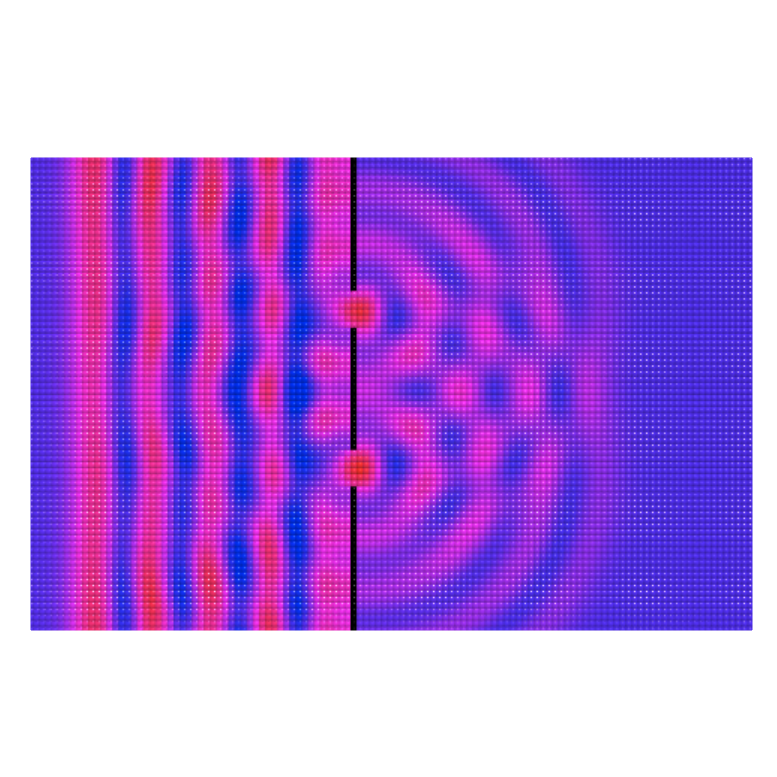
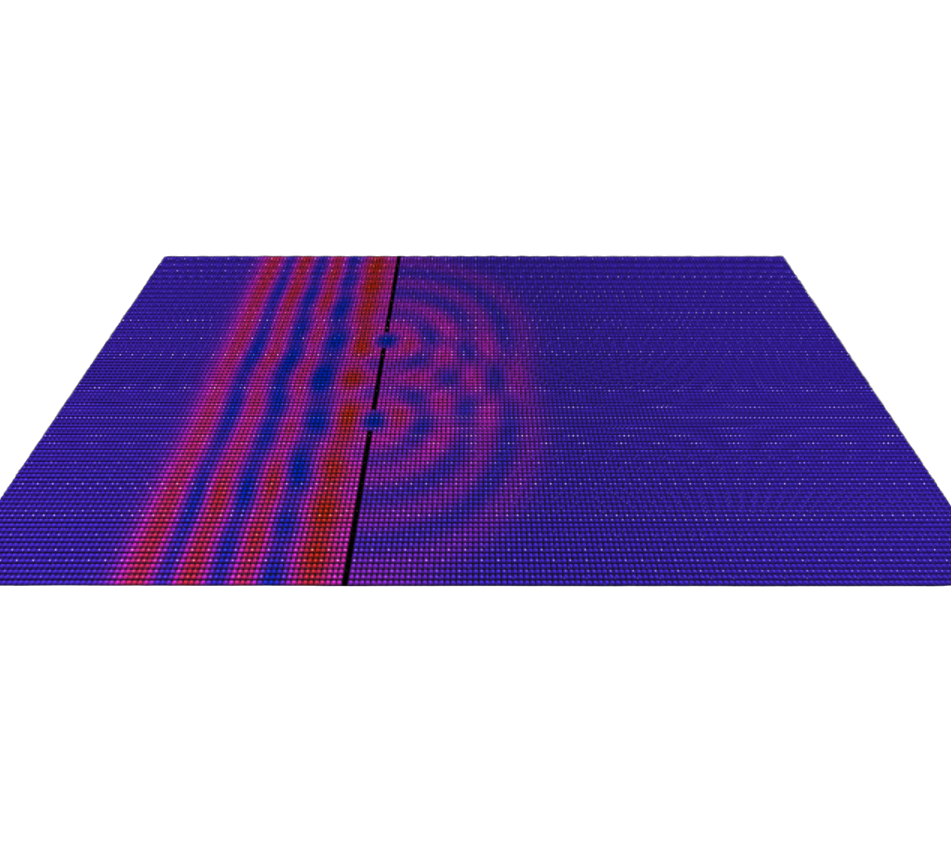
Update

diff --git a/quantumphysics/code/DynamicDoubleSlit.html b/quantumphysics/code/DynamicDoubleSlit.html
@@ -53,7 +53,7 @@ async function __main__() {
 
     function round(num, n=0) {return Number(num.toFixed(n))}
     var arrow, compound, cone, curve, cylinder, ellipsoid, extrusion, helix, points, pyramid, ring, sphere, group, vector, sleep, update, paths, shapes, vertex, triangle, quad, distant_light, local_light, attach_trail, attach_arrow, attach_light, sqrt, sin, tan, asin, acos, atan, atan2, exp, log, pow, factorial, combin, button, radio, slider, text, download, radians, degrees, get_library, read_local_file
-    var version, print, arange, __name__, type, ρσ_ls, title, display, slit_size, slit_distance, inter1, mid_up, mid_down, inter2, wall_x, dx, dy, dt, velocity_source, colorrange, floor, velocity_source_2, dx_2, dy_2, pi_2, use_round_pixels, _, popup, pixels, ρσ_unpack, u_mesh, ut_mesh, utt_mesh;
+    var version, print, arange, __name__, type, ρσ_ls, title, display, slit_size, slit_distance, inter1, mid_up, mid_down, inter2, wall_x, dx, dy, dt, velocity_source, colorrange, floor, velocity_source_2, dx_2, dy_2, pi_2, use_round_pixels, _, clock, pixels, ρσ_unpack, u_mesh, ut_mesh, utt_mesh, popup, j, i;
     version = ρσ_list_decorate([ "3.2", "glowscript" ]);
     Array.prototype['+'] = function(r) {return this.concat(r)}
     Array.prototype['*'] = function(r) {return __array_times_number(this, r)}
@@ -68,7 +68,7 @@ async function __main__() {
     "7";
     title = "&#x2022; Original <a href=\"https://github.com/NelsonHackerman/Random_python_ideas/blob/main/double%20slit%20experiment.py\">double slit experiment.py<\/a> by <a href=\"https://github.com/NelsonHackerman\">Nelson Hackerman</a>\n&#x2022; Ported from PyGame to Glowscript by <a href=\"https://www.hendrikse.name/\">Zeger Hendrikse</a>, see <a href=\"https://github.com/zhendrikse/science/blob/main/quantumphysics/code/dynamic_double_slit.py\">dynamic_double_slit.py</a>\n\n";
     "9";
-    display = ρσ_interpolate_kwargs.call(this, canvas, [ρσ_desugar_kwargs({title: title, background: color.gray(.075), center: vec(700, 350, 0)})]);
+    display = ρσ_interpolate_kwargs.call(this, canvas, [ρσ_desugar_kwargs({title: title, background: color.gray(.075), center: vec(700, 350, 0), forward: vec(0, .65, 1["-u"]()["*"](.75))})]);
     "11";
     slit_size = 6;
     "12";
@@ -188,7 +188,7 @@ async function __main__() {
                 "51";
                 if (pixels_are_round) {
                     "52";
-                    temp.append(ρσ_interpolate_kwargs.call(this, simple_sphere, [ρσ_desugar_kwargs({pos: vec(ρσ_getitem(ρσ_getitem(xmesh, j), i)["*"](100)["+"](50), ρσ_getitem(ρσ_getitem(ymesh, j), i)["*"](100)["+"](50), 0), radius: ceil(100["*"](dx))})]));
+                    temp.append(ρσ_interpolate_kwargs.call(this, simple_sphere, [ρσ_desugar_kwargs({pos: vec(ρσ_getitem(ρσ_getitem(xmesh, j), i)["*"](100)["+"](50), ρσ_getitem(ρσ_getitem(ymesh, j), i)["*"](100)["+"](50), 0), radius: 50["*"](dx)})]));
                     "53";
                 } else {
                     "54";
@@ -278,129 +278,133 @@ async function __main__() {
     pi_2 = pi["/"](2);
     "72";
     async function run_simulation(umesh, utmesh, uttmesh, pixels) {
-        var ρσ_ls, t, m, n, j, i;
+        var ρσ_ls, t, simulation_time, m, n, j, i;
         "73";
         t = 0;
         "74";
-        while (true) {
-            "75";
-            t=t["+"](dt);
+        simulation_time = 10;
+        "75";
+        while (t["<"](simulation_time)) {
             "76";
-            (await rate(100));
+            clock.text = "Time remaining: {:1.2f}".format(simulation_time["-"](1["*"](t)));
+            "77";
+            t=t["+"](dt);
             "78";
+            (await rate(50));
+            "80";
             var ρσ_Iter3 = range(1, len(pixels)["-"](1["*"](1)));
             ρσ_Iter3 = ((typeof ρσ_Iter3[Symbol.iterator] === "function") ? (ρσ_Iter3 instanceof Map ? ρσ_Iter3.keys() : ρσ_Iter3) : Object.keys(ρσ_Iter3));
             for (var ρσ_Index3 of ρσ_Iter3) {
                 n = ρσ_Index3;
-                "79";
+                "81";
                 var ρσ_Iter4 = range(1, len(ρσ_getitem(pixels, 0))["-"](1["*"](1)));
                 ρσ_Iter4 = ((typeof ρσ_Iter4[Symbol.iterator] === "function") ? (ρσ_Iter4 instanceof Map ? ρσ_Iter4.keys() : ρσ_Iter4) : Object.keys(ρσ_Iter4));
                 for (var ρσ_Index4 of ρσ_Iter4) {
                     m = ρσ_Index4;
-                    "80";
+                    "82";
                     ρσ_setitem(ρσ_getitem(uttmesh, m), n, velocity_source_2["*"](ρσ_getitem(ρσ_getitem(umesh, m), n["-"](1["*"](1)))["+"](ρσ_getitem(ρσ_getitem(umesh, m), n["+"](1)))["-"](1["*"](2)["*"](ρσ_getitem(ρσ_getitem(umesh, m), n)))["/"](dx_2)["+"](ρσ_getitem(ρσ_getitem(umesh, m["-"](1["*"](1))), n)["+"](ρσ_getitem(ρσ_getitem(umesh, m["+"](1)), n))["-"](1["*"](2)["*"](ρσ_getitem(ρσ_getitem(umesh, m), n)))["/"](dy_2))));
                 }
             }
-            "83";
+            "85";
             var ρσ_Iter5 = range(1, len(pixels)["-"](1["*"](1)));
             ρσ_Iter5 = ((typeof ρσ_Iter5[Symbol.iterator] === "function") ? (ρσ_Iter5 instanceof Map ? ρσ_Iter5.keys() : ρσ_Iter5) : Object.keys(ρσ_Iter5));
             for (var ρσ_Index5 of ρσ_Iter5) {
                 n = ρσ_Index5;
-                "84";
+                "86";
                 var ρσ_Iter6 = range(1, len(ρσ_getitem(pixels, 0))["-"](1["*"](1)));
                 ρσ_Iter6 = ((typeof ρσ_Iter6[Symbol.iterator] === "function") ? (ρσ_Iter6 instanceof Map ? ρσ_Iter6.keys() : ρσ_Iter6) : Object.keys(ρσ_Iter6));
                 for (var ρσ_Index6 of ρσ_Iter6) {
                     m = ρσ_Index6;
-                    "85";
+                    "87";
                     ρσ_setitem(ρσ_getitem(utmesh, m), n, ρσ_getitem(ρσ_getitem(utmesh, m), n)["+"](ρσ_getitem(ρσ_getitem(uttmesh, m), n)["*"](dt)));
-                    "86";
+                    "88";
                     ρσ_setitem(ρσ_getitem(umesh, m), n, ρσ_getitem(ρσ_getitem(umesh, m), n)["+"](ρσ_getitem(ρσ_getitem(utmesh, m), n)["*"](dt)));
                 }
             }
-            "89";
-            ρσ_setitem(umesh.slice(0), 0, ρσ_getitem(umesh.slice(0), 1));
-            "90";
-            ρσ_setitem(umesh.slice(0), 1["-u"]()["*"](1), ρσ_getitem(umesh.slice(0), 1["-u"]()["*"](2)));
             "91";
-            ρσ_splice(ρσ_getitem(umesh, 0), ρσ_getitem(umesh, 1).slice(0), 0);
+            ρσ_setitem(umesh.slice(0), 0, ρσ_getitem(umesh.slice(0), 1));
             "92";
-            ρσ_splice(ρσ_getitem(umesh, 1["-u"]()["*"](1)), ρσ_getitem(umesh, 1["-u"]()["*"](2)).slice(0), 0);
+            ρσ_setitem(umesh.slice(0), 1["-u"]()["*"](1), ρσ_getitem(umesh.slice(0), 1["-u"]()["*"](2)));
+            "93";
+            ρσ_splice(ρσ_getitem(umesh, 0), ρσ_getitem(umesh, 1).slice(0), 0);
             "94";
+            ρσ_splice(ρσ_getitem(umesh, 1["-u"]()["*"](1)), ρσ_getitem(umesh, 1["-u"]()["*"](2)).slice(0), 0);
+            "96";
             if (t["<"](pi_2)) {
-                "95";
+                "97";
                 var ρσ_Iter7 = range(len(ρσ_getitem(pixels, 0)));
                 ρσ_Iter7 = ((typeof ρσ_Iter7[Symbol.iterator] === "function") ? (ρσ_Iter7 instanceof Map ? ρσ_Iter7.keys() : ρσ_Iter7) : Object.keys(ρσ_Iter7));
                 for (var ρσ_Index7 of ρσ_Iter7) {
                     n = ρσ_Index7;
-                    "96";
+                    "98";
                     ρσ_setitem(ρσ_getitem(umesh, n), 0, 1["-u"]()["*"](cos(t["*"](20)))["+"](1));
                 }
             }
-            "98";
-            ρσ_setitem(ρσ_getitem(umesh, 0), 0, ρσ_getitem(ρσ_getitem(umesh, 1), 1));
-            "99";
-            ρσ_setitem(ρσ_getitem(umesh, 0), 1["-u"]()["*"](1), ρσ_getitem(ρσ_getitem(umesh, 1), 1["-u"]()["*"](2)));
             "100";
-            ρσ_setitem(ρσ_getitem(umesh, 1["-u"]()["*"](1)), 0, ρσ_getitem(ρσ_getitem(umesh, 1["-u"]()["*"](2)), 1));
+            ρσ_setitem(ρσ_getitem(umesh, 0), 0, ρσ_getitem(ρσ_getitem(umesh, 1), 1));
             "101";
-            ρσ_setitem(ρσ_getitem(umesh, 1["-u"]()["*"](1)), 1["-u"]()["*"](1), ρσ_getitem(ρσ_getitem(umesh, 1["-u"]()["*"](2)), 1["-u"]()["*"](2)));
+            ρσ_setitem(ρσ_getitem(umesh, 0), 1["-u"]()["*"](1), ρσ_getitem(ρσ_getitem(umesh, 1), 1["-u"]()["*"](2)));
+            "102";
+            ρσ_setitem(ρσ_getitem(umesh, 1["-u"]()["*"](1)), 0, ρσ_getitem(ρσ_getitem(umesh, 1["-u"]()["*"](2)), 1));
             "103";
+            ρσ_setitem(ρσ_getitem(umesh, 1["-u"]()["*"](1)), 1["-u"]()["*"](1), ρσ_getitem(ρσ_getitem(umesh, 1["-u"]()["*"](2)), 1["-u"]()["*"](2)));
+            "105";
             for (var ρσ_Index8 = 0; ρσ_Index8["<"](inter1); ρσ_Index8++) {
                 n = ρσ_Index8;
-                "104";
-                ρσ_setitem(ρσ_getitem(umesh, n), wall_x, 69);
-                "105";
-                ρσ_setitem(ρσ_getitem(umesh, n), wall_x["-"](1["*"](1)), ρσ_getitem(ρσ_getitem(umesh, n), wall_x["-"](1["*"](2))));
                 "106";
+                ρσ_setitem(ρσ_getitem(umesh, n), wall_x, 69);
+                "107";
+                ρσ_setitem(ρσ_getitem(umesh, n), wall_x["-"](1["*"](1)), ρσ_getitem(ρσ_getitem(umesh, n), wall_x["-"](1["*"](2))));
+                "108";
                 ρσ_setitem(ρσ_getitem(umesh, n), wall_x["+"](1), ρσ_getitem(ρσ_getitem(umesh, n), wall_x["+"](2)));
             }
-            "107";
-            ρσ_setitem(ρσ_getitem(umesh, inter1), wall_x, ρσ_getitem(ρσ_getitem(umesh, inter1), wall_x["-"](1["*"](1)))["+"](ρσ_getitem(ρσ_getitem(umesh, inter1), wall_x["+"](1)))["+"](ρσ_getitem(ρσ_getitem(umesh, inter1["+"](1)), wall_x))["/"](3));
             "109";
+            ρσ_setitem(ρσ_getitem(umesh, inter1), wall_x, ρσ_getitem(ρσ_getitem(umesh, inter1), wall_x["-"](1["*"](1)))["+"](ρσ_getitem(ρσ_getitem(umesh, inter1), wall_x["+"](1)))["+"](ρσ_getitem(ρσ_getitem(umesh, inter1["+"](1)), wall_x))["/"](3));
+            "111";
             for (var ρσ_Index9 = mid_up; ρσ_Index9["<"](mid_down); ρσ_Index9++) {
                 n = ρσ_Index9;
-                "110";
-                ρσ_setitem(ρσ_getitem(umesh, n), wall_x, 69);
-                "111";
-                ρσ_setitem(ρσ_getitem(umesh, n), wall_x["-"](1["*"](1)), ρσ_getitem(ρσ_getitem(umesh, n), wall_x["-"](1["*"](2))));
                 "112";
+                ρσ_setitem(ρσ_getitem(umesh, n), wall_x, 69);
+                "113";
+                ρσ_setitem(ρσ_getitem(umesh, n), wall_x["-"](1["*"](1)), ρσ_getitem(ρσ_getitem(umesh, n), wall_x["-"](1["*"](2))));
+                "114";
                 ρσ_setitem(ρσ_getitem(umesh, n), wall_x["+"](1), ρσ_getitem(ρσ_getitem(umesh, n), wall_x["+"](2)));
             }
-            "113";
-            ρσ_setitem(ρσ_getitem(umesh, mid_up["-"](1["*"](1))), wall_x, ρσ_getitem(ρσ_getitem(umesh, mid_up["-"](1["*"](1))), wall_x["-"](1["*"](1)))["+"](ρσ_getitem(ρσ_getitem(umesh, mid_up["-"](1["*"](1))), wall_x["+"](1)))["+"](ρσ_getitem(ρσ_getitem(umesh, mid_up["-"](1["*"](2))), wall_x))["/"](3));
             "115";
+            ρσ_setitem(ρσ_getitem(umesh, mid_up["-"](1["*"](1))), wall_x, ρσ_getitem(ρσ_getitem(umesh, mid_up["-"](1["*"](1))), wall_x["-"](1["*"](1)))["+"](ρσ_getitem(ρσ_getitem(umesh, mid_up["-"](1["*"](1))), wall_x["+"](1)))["+"](ρσ_getitem(ρσ_getitem(umesh, mid_up["-"](1["*"](2))), wall_x))["/"](3));
+            "117";
             ρσ_setitem(ρσ_getitem(umesh, mid_down), wall_x, ρσ_getitem(ρσ_getitem(umesh, mid_down), wall_x["-"](1["*"](1)))["+"](ρσ_getitem(ρσ_getitem(umesh, mid_down), wall_x["+"](1)))["+"](ρσ_getitem(ρσ_getitem(umesh, mid_down["+"](1)), wall_x))["/"](3));
-            "118";
+            "120";
             var ρσ_Iter10 = range(inter2, len(ρσ_getitem(pixels, 0)));
             ρσ_Iter10 = ((typeof ρσ_Iter10[Symbol.iterator] === "function") ? (ρσ_Iter10 instanceof Map ? ρσ_Iter10.keys() : ρσ_Iter10) : Object.keys(ρσ_Iter10));
             for (var ρσ_Index10 of ρσ_Iter10) {
                 n = ρσ_Index10;
-                "119";
-                ρσ_setitem(ρσ_getitem(umesh, n), wall_x, 69);
-                "120";
-                ρσ_setitem(ρσ_getitem(umesh, n), wall_x["-"](1["*"](1)), ρσ_getitem(ρσ_getitem(umesh, n), wall_x["-"](1["*"](2))));
                 "121";
+                ρσ_setitem(ρσ_getitem(umesh, n), wall_x, 69);
+                "122";
+                ρσ_setitem(ρσ_getitem(umesh, n), wall_x["-"](1["*"](1)), ρσ_getitem(ρσ_getitem(umesh, n), wall_x["-"](1["*"](2))));
+                "123";
                 ρσ_setitem(ρσ_getitem(umesh, n), wall_x["+"](1), ρσ_getitem(ρσ_getitem(umesh, n), wall_x["+"](2)));
             }
-            "122";
-            ρσ_setitem(ρσ_getitem(umesh, 1["-u"]()["*"](1)), wall_x, 69);
-            "123";
-            ρσ_setitem(ρσ_getitem(umesh, 1["-u"]()["*"](1)), wall_x["-"](1["*"](1)), ρσ_getitem(ρσ_getitem(umesh, 1["-u"]()["*"](1)), wall_x["-"](1["*"](2))));
             "124";
-            ρσ_setitem(ρσ_getitem(umesh, 1["-u"]()["*"](1)), wall_x["+"](1), ρσ_getitem(ρσ_getitem(umesh, 1["-u"]()["*"](1)), wall_x["+"](2)));
+            ρσ_setitem(ρσ_getitem(umesh, 1["-u"]()["*"](1)), wall_x, 69);
             "125";
-            ρσ_setitem(ρσ_getitem(umesh, inter2), wall_x, ρσ_getitem(ρσ_getitem(umesh, inter2), wall_x["-"](1["*"](1)))["+"](ρσ_getitem(ρσ_getitem(umesh, inter2), wall_x["+"](1)))["+"](ρσ_getitem(ρσ_getitem(umesh, inter2["-"](1["*"](1))), wall_x))["/"](3));
+            ρσ_setitem(ρσ_getitem(umesh, 1["-u"]()["*"](1)), wall_x["-"](1["*"](1)), ρσ_getitem(ρσ_getitem(umesh, 1["-u"]()["*"](1)), wall_x["-"](1["*"](2))));
+            "126";
+            ρσ_setitem(ρσ_getitem(umesh, 1["-u"]()["*"](1)), wall_x["+"](1), ρσ_getitem(ρσ_getitem(umesh, 1["-u"]()["*"](1)), wall_x["+"](2)));
             "127";
+            ρσ_setitem(ρσ_getitem(umesh, inter2), wall_x, ρσ_getitem(ρσ_getitem(umesh, inter2), wall_x["-"](1["*"](1)))["+"](ρσ_getitem(ρσ_getitem(umesh, inter2), wall_x["+"](1)))["+"](ρσ_getitem(ρσ_getitem(umesh, inter2["-"](1["*"](1))), wall_x))["/"](3));
+            "129";
             var ρσ_Iter11 = range(len(pixels));
             ρσ_Iter11 = ((typeof ρσ_Iter11[Symbol.iterator] === "function") ? (ρσ_Iter11 instanceof Map ? ρσ_Iter11.keys() : ρσ_Iter11) : Object.keys(ρσ_Iter11));
             for (var ρσ_Index11 of ρσ_Iter11) {
                 i = ρσ_Index11;
-                "128";
+                "130";
                 var ρσ_Iter12 = range(len(ρσ_getitem(pixels, 0)));
                 ρσ_Iter12 = ((typeof ρσ_Iter12[Symbol.iterator] === "function") ? (ρσ_Iter12 instanceof Map ? ρσ_Iter12.keys() : ρσ_Iter12) : Object.keys(ρσ_Iter12));
                 for (var ρσ_Index12 of ρσ_Iter12) {
                     j = ρσ_Index12;
-                    "129";
+                    "131";
                     ρσ_getitem(ρσ_getitem(pixels, i), j).color = ((ρσ_getitem(ρσ_getitem(umesh, j), i) === 69 || typeof ρσ_getitem(ρσ_getitem(umesh, j), i) === "object" && ρσ_equals(ρσ_getitem(ρσ_getitem(umesh, j), i), 69))) ? vec(0, 0, 0) : (await colour(ρσ_getitem(ρσ_getitem(umesh, j), i)["-"](1["*"](floor)), colorrange));
                 }
             }
@@ -411,12 +415,12 @@ async function __main__() {
         __module__ : {value: null}
     });
 
-    "131";
+    "133";
     use_round_pixels = true;
-    "132";
+    "134";
     async function toggle_square_pixels(event) {
-        "133";
-        "134";
+        "135";
+        "136";
         use_round_pixels = event.checked;
     };
     if (!toggle_square_pixels.__argnames__) Object.defineProperties(toggle_square_pixels, {
@@ -424,26 +428,45 @@ async function __main__() {
         __module__ : {value: null}
     });
 
-    "136";
+    "138";
     display.append_to_caption("\nRound pixels ");
-    "137";
-    _ = ρσ_interpolate_kwargs.call(this, checkbox, [ρσ_desugar_kwargs({bind: toggle_square_pixels, checked: use_round_pixels})]);
     "139";
-    popup = ρσ_interpolate_kwargs.call(this, label, [ρσ_desugar_kwargs({pos: vec(700, 350, 0), text: "Click mouse to start", height: 25, box: false, color: color.yellow})]);
-    "140";
-    (await display.waitfor("click"));
+    _ = ρσ_interpolate_kwargs.call(this, checkbox, [ρσ_desugar_kwargs({bind: toggle_square_pixels, checked: use_round_pixels})]);
     "141";
-    popup.visible = false;
+    clock = ρσ_interpolate_kwargs.call(this, label, [ρσ_desugar_kwargs({pos: vec(700, 1100, 0), text: "Time remaining: 0:00", height: 20, box: false, color: color.green})]);
     "142";
-    pixels = (await initialize_simulation(use_round_pixels));
-    "143";
-    ρσ_unpack = (await initialize_meshes(len(pixels), len(ρσ_getitem(pixels, 0))));
+    while (true) {
+        "143";
+        pixels = (await initialize_simulation(use_round_pixels));
+        "144";
+        ρσ_unpack = (await initialize_meshes(len(pixels), len(ρσ_getitem(pixels, 0))));
 ρσ_unpack = ρσ_unpack_asarray(3, ρσ_unpack);
-    u_mesh = ρσ_unpack[0];
-    ut_mesh = ρσ_unpack[1];
-    utt_mesh = ρσ_unpack[2];
-    "144";
-    (await run_simulation(u_mesh, ut_mesh, utt_mesh, pixels));
+        u_mesh = ρσ_unpack[0];
+        ut_mesh = ρσ_unpack[1];
+        utt_mesh = ρσ_unpack[2];
+        "145";
+        (await run_simulation(u_mesh, ut_mesh, utt_mesh, pixels));
+        "147";
+        popup = ρσ_interpolate_kwargs.call(this, label, [ρσ_desugar_kwargs({pos: vec(700, 350, 0), text: "Click mouse to restart", height: 25, box: false, color: color.yellow})]);
+        "148";
+        (await display.waitfor("click"));
+        "149";
+        popup.visible = false;
+        "150";
+        var ρσ_Iter13 = range(len(pixels));
+        ρσ_Iter13 = ((typeof ρσ_Iter13[Symbol.iterator] === "function") ? (ρσ_Iter13 instanceof Map ? ρσ_Iter13.keys() : ρσ_Iter13) : Object.keys(ρσ_Iter13));
+        for (var ρσ_Index13 of ρσ_Iter13) {
+            i = ρσ_Index13;
+            "151";
+            var ρσ_Iter14 = range(len(ρσ_getitem(pixels, 0)));
+            ρσ_Iter14 = ((typeof ρσ_Iter14[Symbol.iterator] === "function") ? (ρσ_Iter14 instanceof Map ? ρσ_Iter14.keys() : ρσ_Iter14) : Object.keys(ρσ_Iter14));
+            for (var ρσ_Index14 of ρσ_Iter14) {
+                j = ρσ_Index14;
+                "152";
+                ρσ_getitem(ρσ_getitem(pixels, i), j).visible = false;
+            }
+        }
+    }
 };
 if (!__main__.__module__) Object.defineProperties(__main__, {
     __module__ : {value: null}

diff --git a/quantumphysics/code/dynamic_double_slit.py b/quantumphysics/code/dynamic_double_slit.py
@@ -6,7 +6,7 @@ title = """&#x2022; Original <a href="https://github.com/NelsonHackerman/Random_
 
 """
 
-display = canvas(title=title, background=color.gray(0.075), center=vec(700, 350, 0))
+display = canvas(title=title, background=color.gray(0.075), center=vec(700, 350, 0), forward=vec(0, .65, -.75))
 
 slit_size = 6
 slit_distance = 10
@@ -49,13 +49,15 @@ def initialize_simulation(pixels_are_round):
         temp = []
         for j in range(len(y)):
             if pixels_are_round:
-                temp.append(simple_sphere(pos=vec(xmesh[j][i] * 100 + 50, ymesh[j][i] * 100 + 50, 0), radius=ceil(100 * dx)))
+                temp.append(simple_sphere(pos=vec(xmesh[j][i] * 100 + 50, ymesh[j][i] * 100 + 50, 0), radius=50 * dx))
             else:
-                temp.append(box(pos=vec(xmesh[j][i] * 100 + 50, ymesh[j][i] * 100 + 50, 0), size=vec(ceil(100 * dx), ceil(100 * dy), 0)))
+                temp.append(box(pos=vec(xmesh[j][i] * 100 + 50, ymesh[j][i] * 100 + 50, 0),
+                                size=vec(ceil(100 * dx), ceil(100 * dy), 0)))
 
         pixels.append(temp)
 
     return pixels
+
 
 def initialize_meshes(len_x, len_y):
     umesh = outer_product([0 for _ in range(len_y)], arange(0, 13, dx))
@@ -63,22 +65,26 @@ def initialize_meshes(len_x, len_y):
     uttmesh = [[0. for _ in range(len_x)] for _ in range(len_y)]
     return umesh, utmesh, uttmesh
 
+
 # Calculated once and for all, for enhancing performance
 velocity_source_2 = velocity_source * velocity_source
 dx_2 = dx * dx
 dy_2 = dy * dy
 pi_2 = pi / 2
 
+
 def run_simulation(umesh, utmesh, uttmesh, pixels):
     t = 0
-    while True:
+    simulation_time = 10
+    while t < simulation_time:
+        clock.text = "Time remaining: {:1.2f}".format(simulation_time - t)
         t += dt
-        rate(100)
+        rate(50)
 
         for n in range(1, len(pixels) - 1):
             for m in range(1, len(pixels[0]) - 1):
                 uttmesh[m][n] = velocity_source_2 * ((umesh[m][n - 1] + umesh[m][n + 1] - 2 * umesh[m][n]) / dx_2 + (
-                            umesh[m - 1][n] + umesh[m + 1][n] - 2 * umesh[m][n]) / dy_2)
+                        umesh[m - 1][n] + umesh[m + 1][n] - 2 * umesh[m][n]) / dy_2)
 
         for n in range(1, len(pixels) - 1):
             for m in range(1, len(pixels[0]) - 1):
@@ -128,17 +134,29 @@ def run_simulation(umesh, utmesh, uttmesh, pixels):
             for j in range(len(pixels[0])):
                 pixels[i][j].color = vec(0, 0, 0) if umesh[j][i] == 69 else colour(umesh[j][i] - floor, colorrange)
 
+
 use_round_pixels = True
+
+
 def toggle_square_pixels(event):
     global use_round_pixels
     use_round_pixels = event.checked
 
+
 display.append_to_caption("\nRound pixels ")
 _ = checkbox(bind=toggle_square_pixels, checked=use_round_pixels)
 
-popup = label(pos=vec(700, 350, 0), text="Click mouse to start", height=25, box=False, color=color.yellow)
-display.waitfor("click")
-popup.visible = False
-pixels = initialize_simulation(use_round_pixels)
-u_mesh, ut_mesh, utt_mesh = initialize_meshes(len(pixels), len(pixels[0]))
-run_simulation(u_mesh, ut_mesh, utt_mesh, pixels)
+clock = label(pos=vec(700, 1100, 0), text="Time remaining: 0:00", height=20, box=False, color=color.green)
+while True:
+    pixels = initialize_simulation(use_round_pixels)
+    u_mesh, ut_mesh, utt_mesh = initialize_meshes(len(pixels), len(pixels[0]))
+    run_simulation(u_mesh, ut_mesh, utt_mesh, pixels)
+
+    popup = label(pos=vec(700, 350, 0), text="Click mouse to restart", height=25, box=False, color=color.yellow)
+    display.waitfor("click")
+    popup.visible = False
+    for i in range(len(pixels)):
+        for j in range(len(pixels[0])):
+            pixels[i][j].visible = False
+            # pixels[i][j].delete()
+
